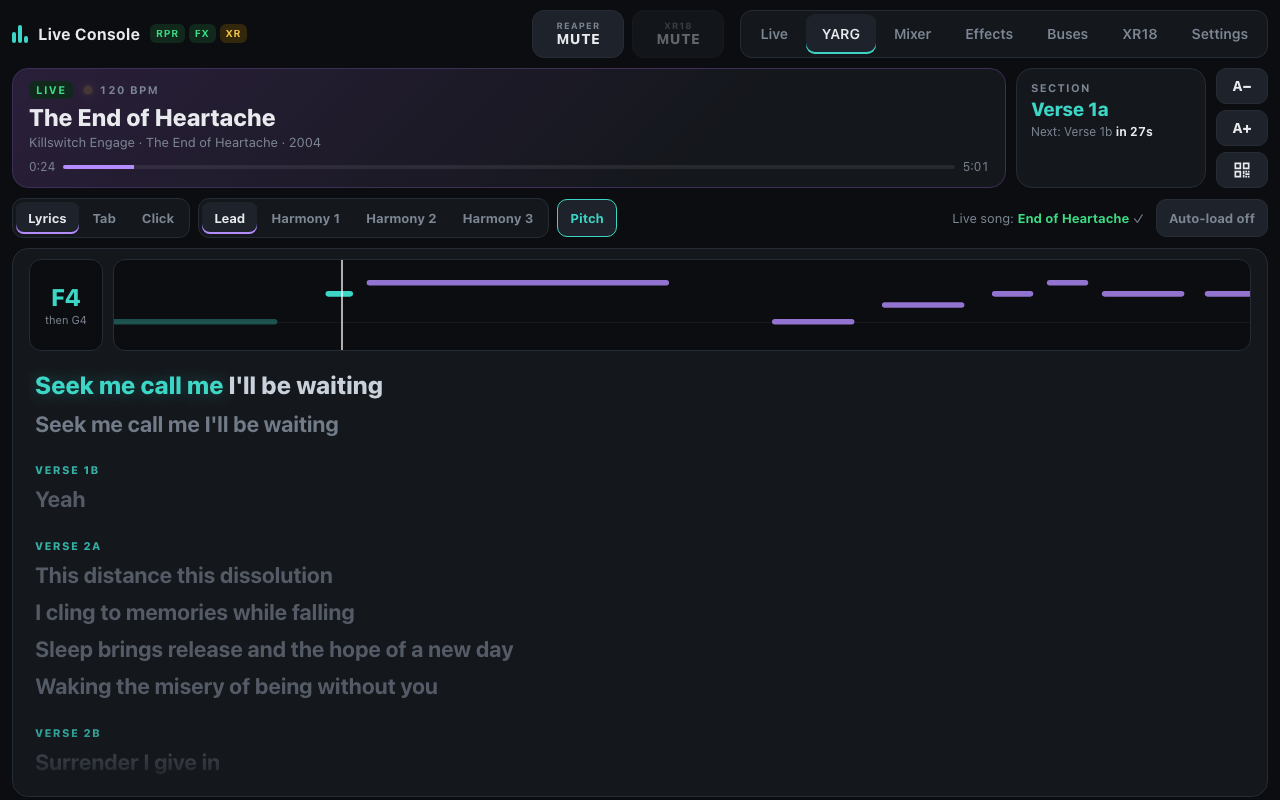
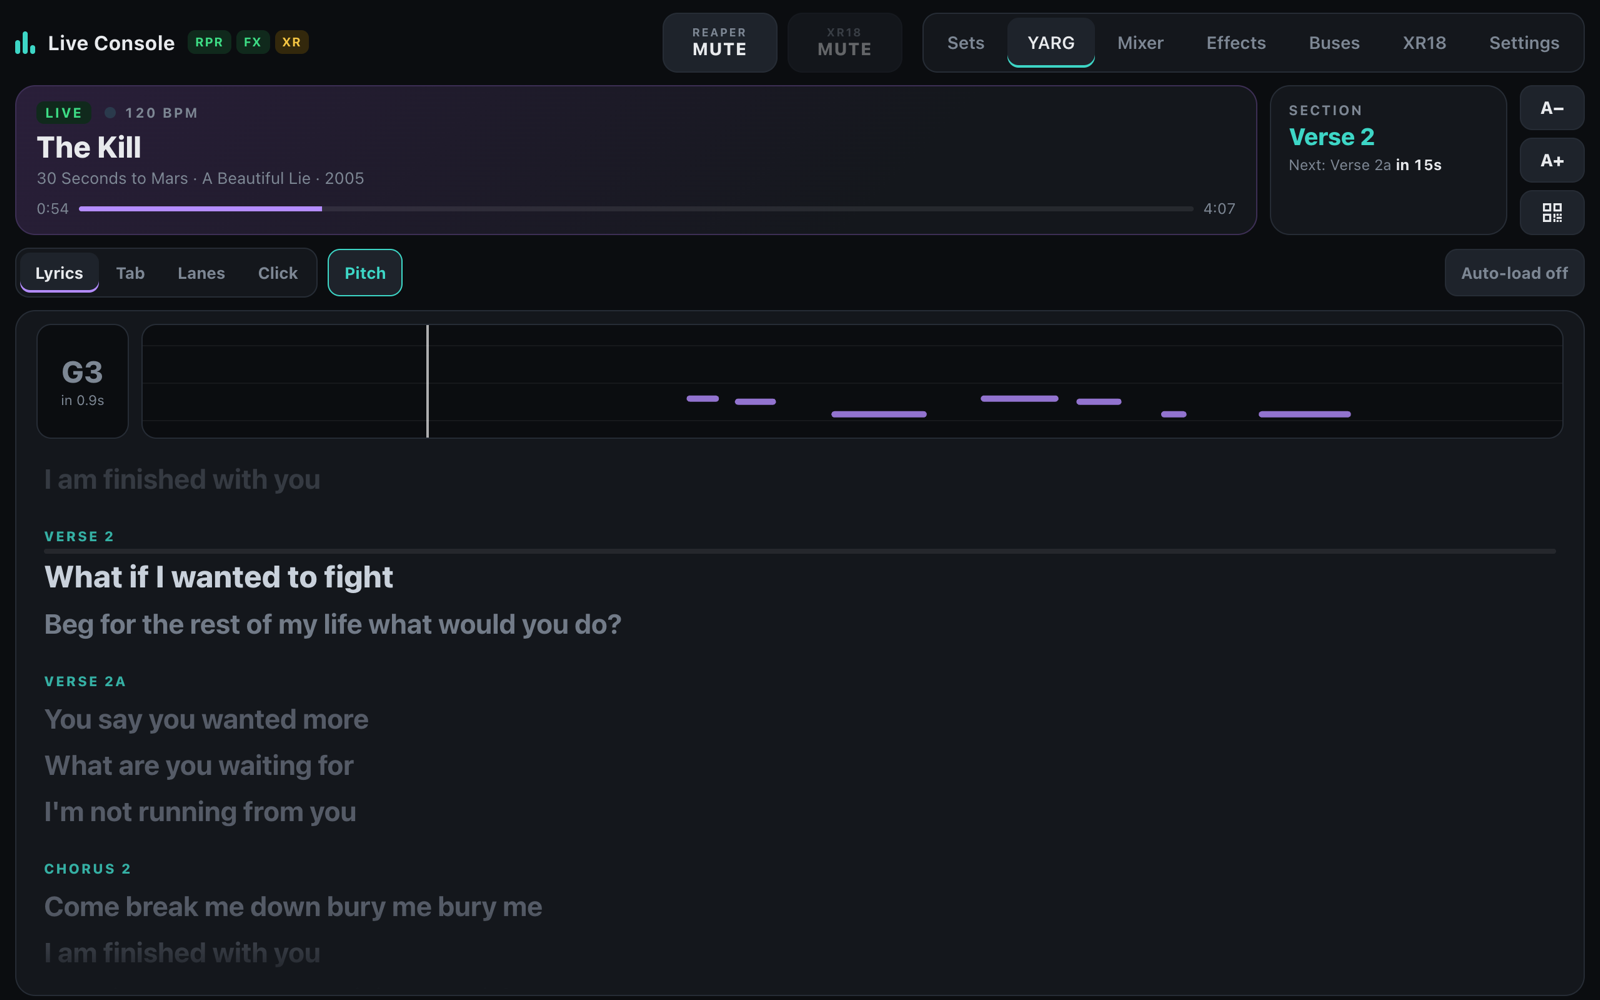
README: new YARG screenshots (lanes, click, tab controls, phone)

diff --git a/README.md b/README.md
@@ -122,9 +122,13 @@ Just want the YARG dashboard, without REAPER or a mixer? [**yargDash**](https://
 
 **Performer pages** (QR button on the YARG tab): `#yarg/stage` lyrics, `#yarg/stage/harm2` a harmony part, `#yarg/tab/<track>` a tab, `#yarg/click` the click, `#yarg/lanes` the lanes (audience screen). Hold the logo for 1 s to get back to the full app.
 
-| Lyrics with pitch guide | Tab |
+| Lyrics with pitch guide | Tab, lined up with the song |
 |---|---|
 | ![YARG lyrics](docs/screenshots/yarg-lyrics.png) | ![YARG tab](docs/screenshots/yarg-tab.png) |
+| **Lanes** (audience screen) | **Click** for the drummer |
+| ![YARG lanes](docs/screenshots/yarg-lanes.png) | ![YARG click](docs/screenshots/yarg-click.png) |
+
+<img src="docs/screenshots/yarg-phone-tab.png" alt="YARG tab performer page on a phone in landscape" width="520">
 
 ## How it works
 
